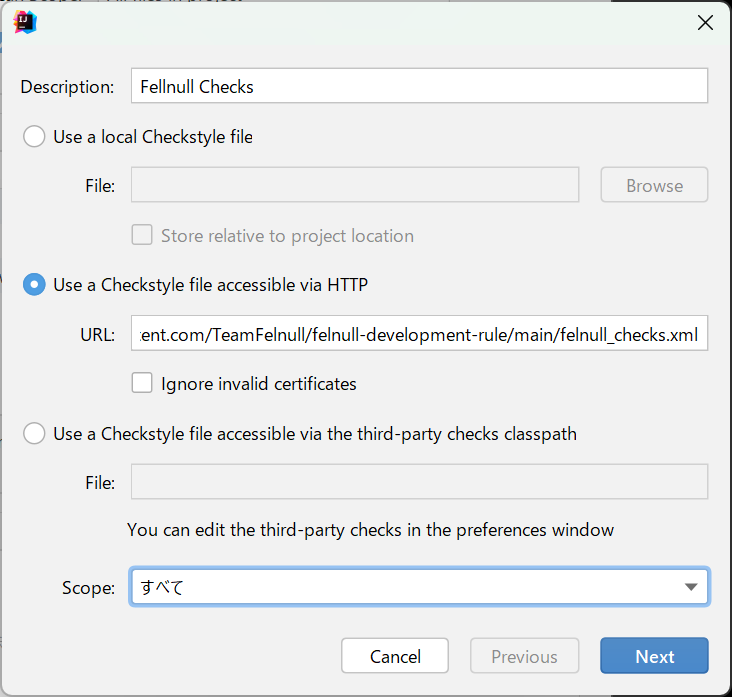
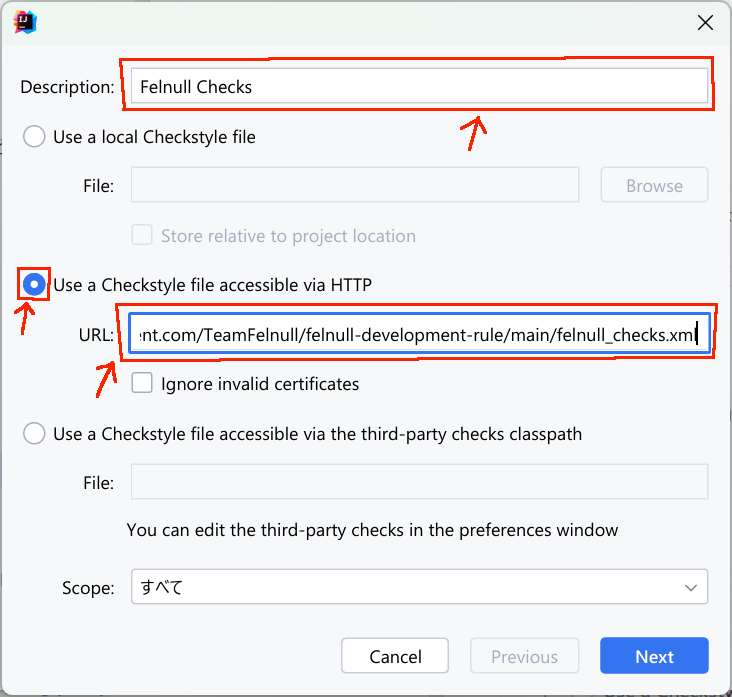
画像の間違え修正と、分かりやすいように内容変更

diff --git a/Java開発規約.md b/Java開発規約.md
@@ -85,9 +85,13 @@ privateのメソッドにJavadocを記述するかどうかは自由ですが、
 ### CheckStyle
 
 IntelliJ IDEAを使用する場合は[CheckStyleプラグイン](https://plugins.jetbrains.com/plugin/1065-checkstyle-idea)
-をインストールすることをお勧めします。  
-インストール後、ファイル -> 設定 -> ツール -> CheckStyleからConfiguration Fileの+から、`Use a Checkstyle file accessible via HTTP`
-に以下のURLを入力してください。
+をインストールすることをお勧めします。
+
+インストール後、ファイル → 設定 → ツールからCheckstyleを開き、Configuration Fileの+を押してください。
+
+![IDEA Checkstyle Plugin Add](./images/idea_checkstyle_configuration_file.png)
+
+Descriptionに`Felnull Checks`を入力して、`Use a Checkstyle file accessible via HTTP`にチェックを付け、以下のURLを入力してください。
 
 ```
 https://raw.githubusercontent.com/TeamFelnull/felnull-development-rule/main/felnull_checks.xml
@@ -95,9 +99,13 @@ https://raw.githubusercontent.com/TeamFelnull/felnull-development-rule/main/feln
 
 ![IDEA Checkstyle Plugin Add](./images/idea_checkstyle_plugin_add.png)
 
-そして、以下のようにActiveにチェックを付けることでコードが違反している場合に、エディタ上に表示されるようになります。
+追加したConfiguration FileのActiveにチェックを付けてください。  
+これで、コードが違反している場合に、エディタ上に表示されるようになります。
+
 
 ![IDEA Checkstyle Plugin](./images/idea_checkstyle_plugin.png)
+
+
 
 ## JUnit
 
